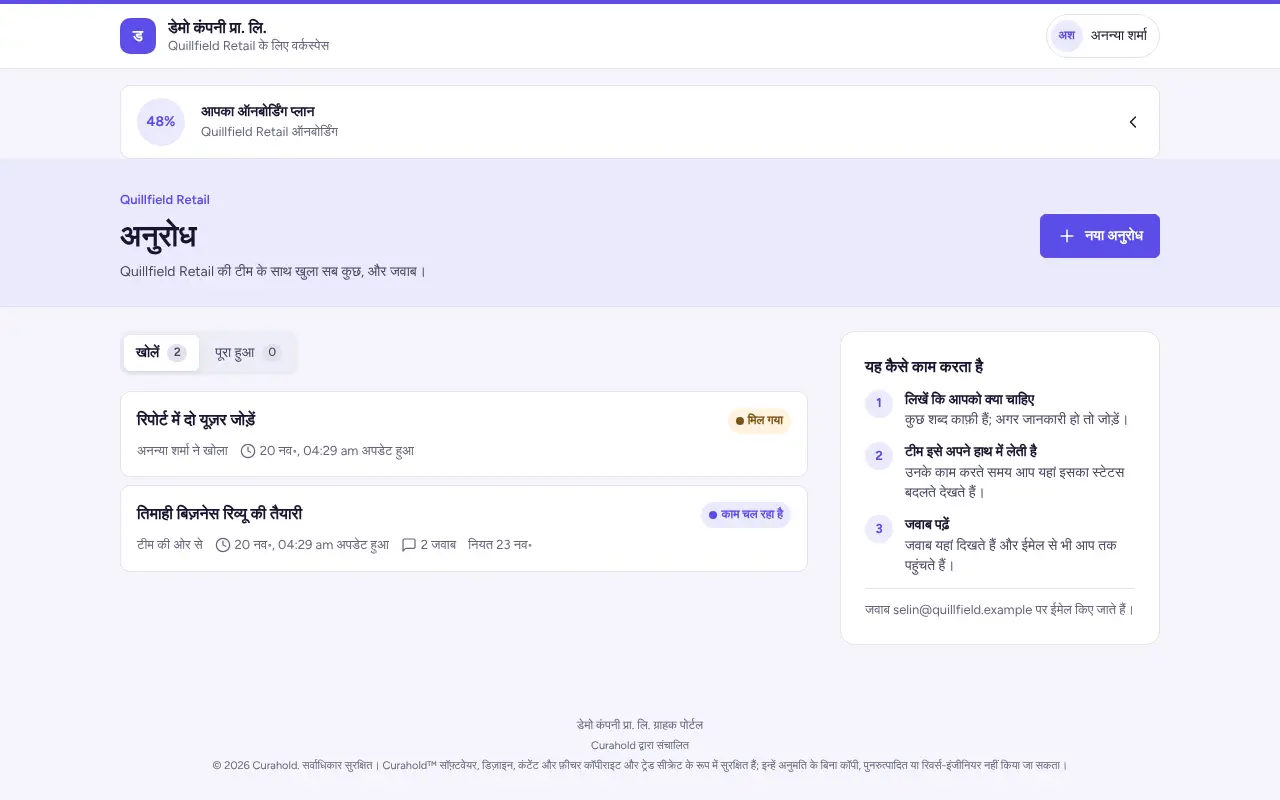
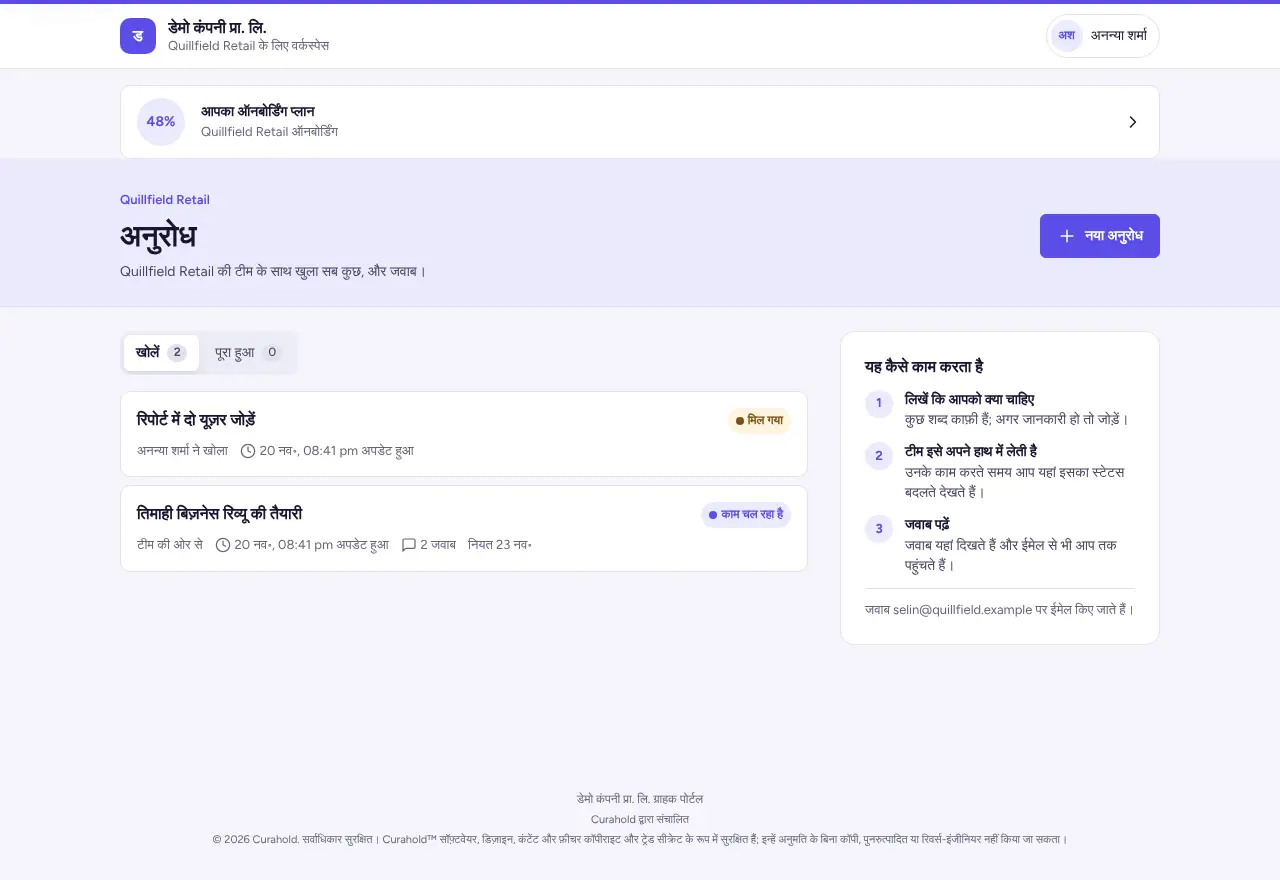
Customer portal help picture shows its whole footer
The portal's footer now ends with the copyright and trade-secret line, and the 800 px frame cut it in half in every language. The portal picture is taken 1280 x 880 (the help pages read each picture's real size), so the line is whole even where it is long, as in Hindi; retaken in all eleven languages.

Claude-Session: https://claude.ai/code/session_018eTfaeJqBjwiS8Zw4rK5m4

diff --git a/scripts/docs/shots.ts b/scripts/docs/shots.ts
@@ -156,7 +156,8 @@ const SHOTS: Shot[] = [
   { name: 'customer', go: `__demo.navigate('/accounts'); await wait('.acard__name'); document.querySelector('.acard__name').click()`, ready: '.acc-band', width: 1280, height: 800 },
   { name: 'task', go: `document.querySelector('.navlink--board')?.click(); await wait('.board .card'); document.querySelector('.board .card').click()`, ready: '.panel', width: 1280, height: 800 },
   { name: 'home', go: `__demo.navigate('/home')`, ready: '.pane', width: 1280, height: 800 },
-  { name: 'portal', go: `await __demo.as('customer')`, ready: '.p-list', width: 1280, height: 800 },
+  // Taller than the rest: the portal's footer ends with the legal line, which must not be cut by the frame.
+  { name: 'portal', go: `await __demo.as('customer')`, ready: '.p-list', width: 1280, height: 880 },
   ...SETUP,
   { name: 'setup-phone', go: go('/setup-health'), ready: '.sh-item', width: 390, height: 780 },
   // The onboarding plan guide (docs/site/<lang>/onboarding-hub.md): one picture per step, the click target marked.
